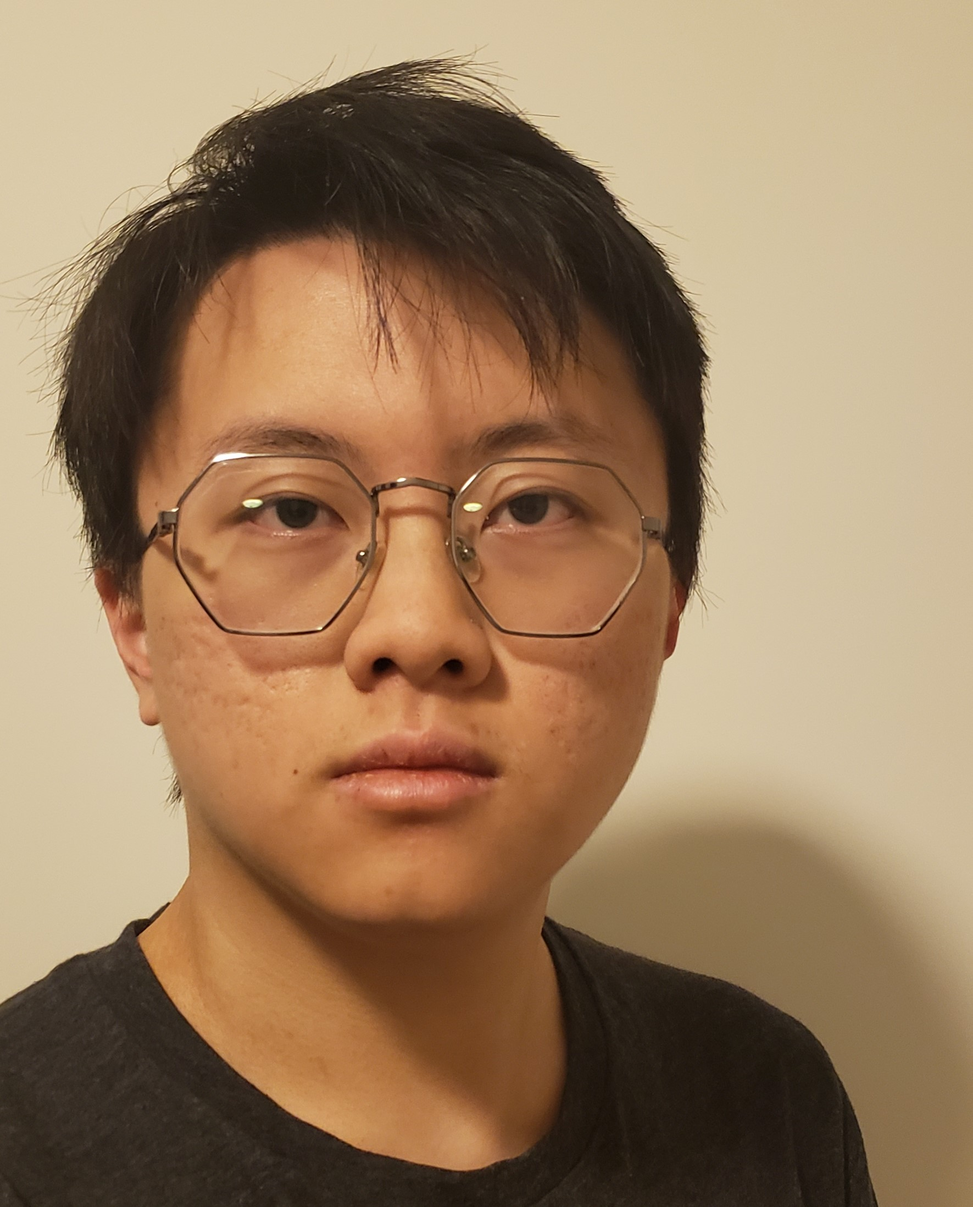
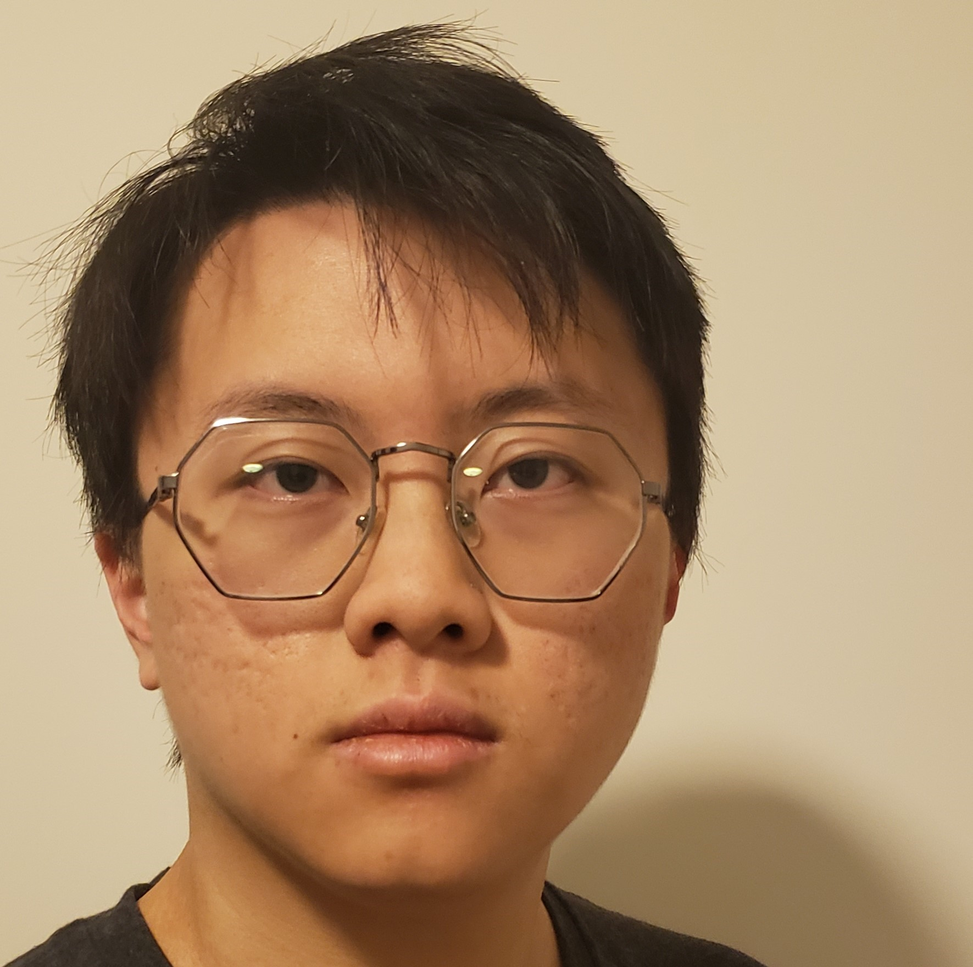
About Us - Entry Refactor & Page Responsiveness
- Simplified styling for each entry.
- Page has responsiveness to ~376px.
- Deleted sample images.
- Cropped team pictures to fit wrapper element.

diff --git a/css/about.css b/css/about.css
@@ -1,46 +1,89 @@
-.container.about-bar {
-    border-radius: 30px;
+.about-entry {
+    display: flex;
+    flex-wrap: wrap;
+    flex-direction: column;
+    padding: 15px;
+    margin: 2rem;
+    max-width: 100%;
     background: linear-gradient(90deg, #e2faed, #ccdffc);
-    padding: 20px;
-    margin-top: 2rem;
-    margin-bottom: 2rem;
-    display: flex;
-}
-
-.container.about-content {
     border-radius: 30px;
-    background-color: white;
-    padding: 20px;
-    margin-top: 2rem;
-    margin-bottom: 2rem;
-    display: flex;
+
+    h1,
+    h2,
+    h3 {
+        max-width: inherit;
+        margin: 0;
+        text-align: center;
+    }
+
+    > div {
+        display: flex;
+        flex-wrap: nowrap;
+        flex-direction: row;
+        align-items: center;
+        position: relative;
+        padding: 15px;
+
+        .desc {
+            border-radius: 30px;
+            background-color: white;
+            padding: 25px;
+            min-height: 100%;
+        }
+        
+    }
+    
 }
 
-#left {
-    justify-content: left;
-    text-align: left;
+.right {
+    .img-wrap {
+        margin-left: 2rem;
+    }
 }
 
-#right {
-    justify-content: right;
-    text-align: right;
+.left {
+    > div > .img-wrap {
+        margin-right: 2rem;
+    }
 }
 
-.about-header {
-    max-width: fit-content;
-    max-height: fit-content;
-    margin: auto;
-}
-
-
-.image-container {
-    justify-content: left;
-    align-self: center;
-    max-height: 280px;
-    max-width: fit-content;
-}
-
-.img-fluid {
+img {
+    object-fit: cover;
+    max-width: 250px; 
     border-radius: 100%;
-    max-height: 250px;
+}
+
+@media (max-width: 1530px)  {
+    img {
+        max-width: 200px; 
+    }
+    
+}
+
+@media (max-width: 990px) {
+    img {
+        max-width: 125px; 
+    }
+
+    .img-wrap {
+        margin: 0 !important;
+        margin-bottom: 1rem !important;
+        position: relative;
+        top: 0;
+    }
+
+    .about-entry.left > div {
+        flex-direction: column;
+    }
+
+    .about-entry.right > div {
+        flex-direction: column-reverse;
+    }
+    
+}
+
+@media (max-width: 576px) {
+    p {
+        font-size: 0.8rem;
+    }
 }

diff --git a/about.php b/about.php
@@ -16,41 +16,29 @@ session_start();
 
         <div class="container" id='main-body'>
 
-            <div class="container about-bar row align-items-start" id="left">
-                <div class="col-3">
-                    <div class="container image-container">
-                        <img class='img-fluid' src="images/about/cassie.jpg" alt="team image">
+            <div class="about-entry left">
+                <h1>Cassie Sand</h1>
+                <div>
+                    <div class="img-wrap">
+                        <img src="images/about/cassie.jpg" alt="team image">
                     </div>
-                </div>
-                
-                
-                <div class="col-9">
-                    <div class="container row">
-                        <div class="about-header">
-                            <h1 id="left">Cassie Sand</h1>
-                        </div>
 
-                        <div class="container about-content">
-                            <p>
-                                Cassie Sand was raised in Lakeville, Minnesota. After graduating from Lakeville North High School, she attended Simpson College located in Indianola, Iowa.
-                                While in Iowa, she completed a double major in Business Management and Theatre Arts, graduating in 2020.
-                                Upon entering the workforce, she chose to complete a second bachelors degree to pursue a career in software development.
-                                She will be graduating in December 2024 with a Bachelor of Science degree in Computer Science from Metroplitan State University.
-                                Her well-rounded background has proven essential to developing new creative solutions.
-                            </p>
-                        </div>
+                    <div class="desc">
+                        <p>
+                        Cassie Sand was raised in Lakeville, Minnesota. After graduating from Lakeville North High School, she attended Simpson College located in Indianola, Iowa.
+                        While in Iowa, she completed a double major in Business Management and Theatre Arts, graduating in 2020.
+                        Upon entering the workforce, she chose to complete a second bachelors degree to pursue a career in software development.
+                        She will be graduating in December 2024 with a Bachelor of Science degree in Computer Science from Metroplitan State University.
+                        Her well-rounded background has proven essential to developing new creative solutions.
+                        </p>
                     </div>
                 </div>
-                
             </div>
 
-            <div class="container about-bar" id="left">
-                <div class="container">
-
-                    <div class="about-header">
-                        <h1>Samuel Goergen</h1>
-                    </div>
-                    <div class="container about-content">
+            <div class="about-entry right">
+                <h1>Samuel Goergen</h1>
+                <div>
+                    <div class="desc">
                         <p>
                             Sam is originally from Plymouth, Minnesota. After high school, he excelled in a sales career, generating around one million dollars in annual revenue for five consecutive years.
                             More recently, he's pivoted to software engineering, captivated by its potential to transform business and interactions.
@@ -58,21 +46,22 @@ session_start();
                             His passion for achievement shines through in everything he does, from coding to sports.
                         </p>
                     </div>
-                </div>
-                <div class="container image-container">
-                    <img class='img-fluid' src="images/about/sam.jpg" alt="team image">
+
+                    <div class="img-wrap">
+                        <img src="images/about/sam.jpg" alt="team image">
+                    </div>
                 </div>
             </div>
 
-            <div class="container about-bar" id="left">
-                <div class="container image-container">
-                    <img class='img-fluid' src="images/about/justin.jpg" alt="team image">
-                </div>
-                <div class="container">
-                    <div class="about-header">
-                        <h1>Justin Her</h1>
+            <div class="about-entry left">
+            <h1>Justin Her</h1>
+                <div>
+                    <div class="img-wrap">
+                        <img src="images/about/justin.jpg" alt="team image">
                     </div>
-                    <div class="container about-content">
+                    
+                    
+                    <div class="desc">
                         <p>
                             Justin is a Minnesota native with a long standing relationship with computers and technology since his youth. As such,
                             after graduating from Eastern Gateway Community College in 2021, he sought to attain a Bachelor's Degree in Computer Science
@@ -84,40 +73,38 @@ session_start();
                 </div>
             </div>
 
-            <div class="container about-bar" id="right">
-                <div class="container">
-                    <div class="about-header">
-                        <h1>Ryan Her</h1>
-                    </div>
-                    <div class="container about-content">
-                        <p>
-                            Ryan was born and raised in Saint Paul, Minnesota. He attended Blaine High School and graduated in 2019. Ryan attended Anoka Ramsey Community College and
-                            then transferred to Metropolitan State University, majoring in Computer Science and is set to graduate in December 2024 with his Bachelors. In his free time
-                            Ryan enjoys training in Muay Thai and watching Vikings football. Ryan has successfully completed a Software Engineering Internship with Securian Financial and aims 
-                            to continue on this career path in tech.
-                        </p>
-                    </div>
+            <div class="about-entry right">
+            <h1>Ryan Her</h1>
+                <div>
+                <div class="desc">
+                    <p>
+                        Ryan was born and raised in Saint Paul, Minnesota. He attended Blaine High School and graduated in 2019. Ryan attended Anoka Ramsey Community College and
+                        then transferred to Metropolitan State University, majoring in Computer Science and is set to graduate in December 2024 with his Bachelors. In his free time
+                        Ryan enjoys training in Muay Thai and watching Vikings football. Ryan has successfully completed a Software Engineering Internship with Securian Financial and aims 
+                        to continue on this career path in tech.
+                    </p>
                 </div>
-                <div class="container image-container">
-                    <img class='img-fluid' src="images/about/ryanH.png" alt="team image">
+
+                    <div class="img-wrap">
+                        <img src="images/about/ryan.png" alt="team image">
+                    </div>
+
                 </div>
             </div>
 
-            <div class="container about-bar" id="left">
-                <div class="container image-container">
-                    <img class='img-fluid' src="images/about/logan.jpg" alt="team image">
-                </div>
-
-                <div class="container">
-                    <div class="about-header">
-                        <h1>Logan Johansson</h1>
+            <div class="about-entry left">
+            <h1>Logan Johansson</h1>
+                <div>
+                    <div class="img-wrap">
+                        <img src="images/about/logan.jpg" alt="team image">
                     </div>
-                    <div class="container about-content">
+                    
+                    <div class="desc">
                         <p>
-                        Logan was born in Wisconsin and attended UW-Madison majoring in Biology. Logan moved to Minnesota nearly 10 years ago to pursue a career opportunity, and has been 
-                        residing in the state ever since. After gaining valuable experience in the workforce, Logan decided to further his education and pursue a bachelor's degree in Computer Science at 
-                        Metropolitan State University. Logan is set to graduate in December 2024 and is excited to continue building his career in the tech field.
-                        </p>
+                            Logan was born in Wisconsin and attended UW-Madison majoring in Biology. Logan moved to Minnesota nearly 10 years ago to pursue a career opportunity, and has been 
+                            residing in the state ever since. After gaining valuable experience in the workforce, Logan decided to further his education and pursue a bachelor's degree in Computer Science at 
+                            Metropolitan State University. Logan is set to graduate in December 2024 and is excited to continue building his career in the tech field.
+                        </p> 
                     </div>
                 </div>
             </div>
